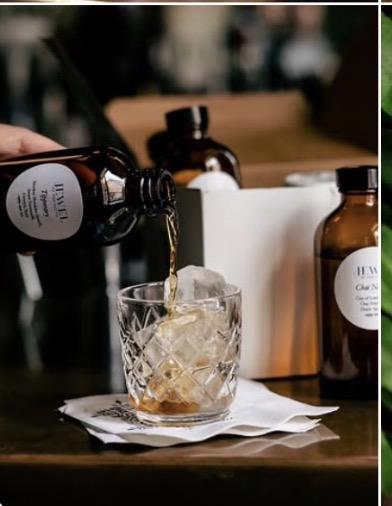
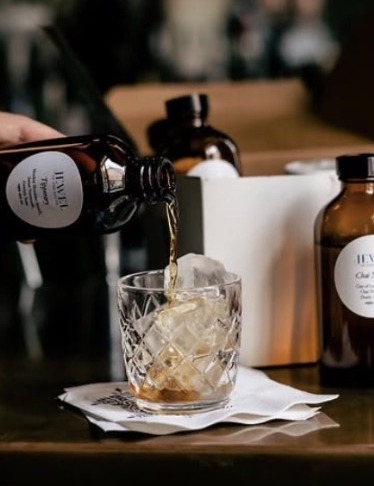
Add files via upload

diff --git a/styles.css b/styles.css
@@ -520,3 +520,164 @@ header{
     max-height:240px !important;
   }
 }
+
+
+/* V14 — final professional polish */
+
+/* Keep the Drink section disciplined inside the desktop viewport. */
+#drink{
+  padding-top:58px !important;
+  padding-bottom:72px !important;
+  overflow:hidden;
+}
+#drink > .section-title,
+#drink > .drink-collage,
+#drink > .drink-grid{
+  width:min(1320px,100%) !important;
+  margin-left:auto !important;
+  margin-right:auto !important;
+}
+#drink > .section-title{
+  margin-bottom:30px !important;
+}
+
+/* Five photographs read as one editorial strip — identical geometry. */
+#drink .drink-collage{
+  display:grid !important;
+  grid-template-columns:repeat(5,minmax(0,1fr)) !important;
+  grid-auto-rows:300px !important;
+  gap:12px !important;
+  align-items:stretch !important;
+  margin-top:0 !important;
+  margin-bottom:42px !important;
+}
+#drink .drink-collage img,
+#drink .drink-collage img:nth-child(n){
+  display:block !important;
+  width:100% !important;
+  height:300px !important;
+  min-width:0 !important;
+  min-height:0 !important;
+  max-height:none !important;
+  margin:0 !important;
+  padding:0 !important;
+  object-fit:cover !important;
+  object-position:center center !important;
+  border:1px solid rgba(255,255,255,.12) !important;
+  border-radius:0 !important;
+  box-sizing:border-box !important;
+  background:#090909 !important;
+  filter:saturate(.92) brightness(.80) contrast(1.035) !important;
+  box-shadow:0 14px 34px rgba(0,0,0,.20);
+}
+
+/* Subject-specific crop tuning while keeping every frame the same size. */
+#drink .drink-collage img:nth-child(1){object-position:center 51% !important;}
+#drink .drink-collage img:nth-child(2){object-position:center 50% !important;}
+#drink .drink-collage img:nth-child(3){object-position:center 50% !important;}
+#drink .drink-collage img:nth-child(4){object-position:center 46% !important;}
+#drink .drink-collage img:nth-child(5){object-position:center 48% !important;}
+
+/* Venue links become a separate, clearly organized editorial index rather
+   than appearing as captions for individual photographs. */
+#drink .drink-grid{
+  display:grid !important;
+  grid-template-columns:repeat(3,minmax(0,1fr)) !important;
+  border-top:1px solid rgba(255,255,255,.18) !important;
+  column-gap:0 !important;
+}
+#drink .drink-grid a{
+  min-width:0;
+  min-height:104px;
+  padding:25px 24px !important;
+  border-right:1px solid rgba(255,255,255,.08);
+  border-bottom:1px solid rgba(255,255,255,.14) !important;
+  justify-content:center;
+}
+#drink .drink-grid a:nth-child(3n){border-right:0;}
+#drink .drink-grid b{
+  line-height:1.05;
+}
+
+/* Prevent horizontal clipping throughout the site at common laptop widths. */
+html,body{
+  max-width:100%;
+  overflow-x:hidden;
+}
+main,section{
+  min-width:0;
+}
+header{
+  max-width:100vw;
+}
+header nav{
+  min-width:0;
+}
+header nav a{
+  white-space:nowrap;
+}
+
+/* Reduce accidental-looking dead space between major editorial sections. */
+.dark + .cream,
+.cream + .dark,
+.night-ribbon + .dark{
+  margin-top:0 !important;
+}
+
+/* Laptop breakpoint: keep the gallery cohesive instead of allowing it to
+   run offscreen. */
+@media(max-width:1180px){
+  #drink{
+    padding-left:4vw !important;
+    padding-right:4vw !important;
+  }
+  #drink .drink-collage{
+    grid-template-columns:repeat(5,minmax(0,1fr)) !important;
+    grid-auto-rows:260px !important;
+    gap:8px !important;
+  }
+  #drink .drink-collage img,
+  #drink .drink-collage img:nth-child(n){
+    height:260px !important;
+  }
+  #drink .drink-grid{
+    grid-template-columns:repeat(3,minmax(0,1fr)) !important;
+  }
+}
+
+/* Tablet/mobile: preserve hierarchy without awkward half-crops. */
+@media(max-width:820px){
+  #drink .drink-collage{
+    grid-template-columns:repeat(2,minmax(0,1fr)) !important;
+    grid-auto-rows:240px !important;
+  }
+  #drink .drink-collage img,
+  #drink .drink-collage img:nth-child(n){
+    height:240px !important;
+  }
+  #drink .drink-grid{
+    grid-template-columns:1fr 1fr !important;
+  }
+  #drink .drink-grid a:nth-child(3n){border-right:1px solid rgba(255,255,255,.08);}
+  #drink .drink-grid a:nth-child(2n){border-right:0;}
+}
+@media(max-width:560px){
+  #drink{
+    padding-top:42px !important;
+  }
+  #drink .drink-collage{
+    grid-template-columns:1fr !important;
+    grid-auto-rows:300px !important;
+    gap:10px !important;
+  }
+  #drink .drink-collage img,
+  #drink .drink-collage img:nth-child(n){
+    height:300px !important;
+  }
+  #drink .drink-grid{
+    grid-template-columns:1fr !important;
+  }
+  #drink .drink-grid a{
+    border-right:0 !important;
+  }
+}
